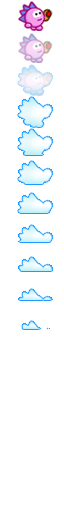
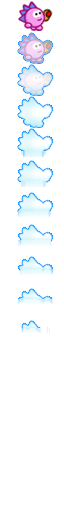
Artillery mode, sniper rifle, speech bubble tweaks, fix of rope bug introduced by enabling hats in jump
--HG--
extra : convert_revision : svn%3A99beacd1-defe-0310-bff8-d3e2e4bee508/trunk%402069

diff --git a/QTfrontend/ammoSchemeModel.cpp b/QTfrontend/ammoSchemeModel.cpp
@@ -34,11 +34,12 @@ QList<QVariant> defaultScheme = QList<QVariant>()
 		<< QVariant(true)          // add mines      8
 		<< QVariant(false)         // vampiric       9
 		<< QVariant(false)         // karma          10
-		<< QVariant(100)           // damage modfier 11
-		<< QVariant(45)            // turn time      12
-		<< QVariant(100)           // init health    13
-		<< QVariant(15)            // sudden death   14
-		<< QVariant(5)             // case prob      15
+		<< QVariant(false)         // artillery      11
+		<< QVariant(100)           // damage modfier 12
+		<< QVariant(45)            // turn time      13
+		<< QVariant(100)           // init health    14
+		<< QVariant(15)            // sudden death   15
+		<< QVariant(5)             // case prob      16
 		;
 
 AmmoSchemeModel::AmmoSchemeModel(QObject* parent, const QString & fileName) :
@@ -65,11 +66,12 @@ AmmoSchemeModel::AmmoSchemeModel(QObject* parent, const QString & fileName) :
 		<< "mines"            //  8
 		<< "vampiric"         //  9
 		<< "karma"            // 10
-		<< "damagefactor"     // 11
-		<< "turntime"         // 12
-		<< "health"           // 13
-		<< "suddendeath"      // 14
-		<< "caseprobability"  // 15
+		<< "artillery"        // 11
+		<< "damagefactor"     // 12
+		<< "turntime"         // 13
+		<< "health"           // 14
+		<< "suddendeath"      // 15
+		<< "caseprobability"  // 16
 		;
 
 	QList<QVariant> proMode;
@@ -85,11 +87,12 @@ AmmoSchemeModel::AmmoSchemeModel(QObject* parent, const QString & fileName) :
 		<< QVariant(false)         // add mines      8
 		<< QVariant(false)         // vampiric       9
 		<< QVariant(false)         // karma          10
-		<< QVariant(100)           // damage modfier 11
-		<< QVariant(15)            // turn time      12
-		<< QVariant(100)           // init health    13
-		<< QVariant(15)            // sudden death   14
-		<< QVariant(0)             // case prob      15
+		<< QVariant(false)         // artillery      11
+		<< QVariant(100)           // damage modfier 12
+		<< QVariant(15)            // turn time      13
+		<< QVariant(100)           // init health    14
+		<< QVariant(15)            // sudden death   15
+		<< QVariant(0)             // case prob      16
 		;
 
 	QList<QVariant> shoppa;
@@ -105,11 +108,12 @@ AmmoSchemeModel::AmmoSchemeModel(QObject* parent, const QString & fileName) :
 		<< QVariant(false)         // add mines      8
 		<< QVariant(false)         // vampiric       9
 		<< QVariant(false)         // karma          10
-		<< QVariant(100)           // damage modfier 11
-		<< QVariant(30)            // turn time      12
-		<< QVariant(100)           // init health    13
-		<< QVariant(50)            // sudden death   14
-		<< QVariant(1)             // case prob      15
+		<< QVariant(false)         // artillery      11
+		<< QVariant(100)           // damage modfier 12
+		<< QVariant(30)            // turn time      13
+		<< QVariant(100)           // init health    14
+		<< QVariant(50)            // sudden death   15
+		<< QVariant(1)             // case prob      16
 		;
 
 	QList<QVariant> basketball;
@@ -125,11 +129,12 @@ AmmoSchemeModel::AmmoSchemeModel(QObject* parent, const QString & fileName) :
 		<< QVariant(false)         // add mines      8
 		<< QVariant(false)         // vampiric       9
 		<< QVariant(false)         // karma          10
-		<< QVariant(100)           // damage modfier 11
-		<< QVariant(30)            // turn time      12
-		<< QVariant(100)           // init health    13
-		<< QVariant(15)            // sudden death   14
-		<< QVariant(0)             // case prob      15
+		<< QVariant(false)         // artillery      11
+		<< QVariant(100)           // damage modfier 12
+		<< QVariant(30)            // turn time      13
+		<< QVariant(100)           // init health    14
+		<< QVariant(15)            // sudden death   15
+		<< QVariant(0)             // case prob      16
 		;
 
 	schemes.append(defaultScheme);

diff --git a/QTfrontend/gamecfgwidget.cpp b/QTfrontend/gamecfgwidget.cpp
@@ -111,13 +111,15 @@ quint32 GameCFGWidget::getGameFlags() const
 		result |= 0x200;
 	if (schemeData(10).toBool())
 		result |= 0x400;
+	if (schemeData(11).toBool())
+		result |= 0x800;
 
 	return result;
 }
 
 quint32 GameCFGWidget::getInitHealth() const
 {
-	return schemeData(13).toInt();
+	return schemeData(14).toInt();
 }
 
 QStringList GameCFGWidget::getFullConfig() const
@@ -125,10 +127,10 @@ QStringList GameCFGWidget::getFullConfig() const
 	QStringList sl;
 	sl.append("eseed " + pMapContainer->getCurrentSeed());
 	sl.append(QString("e$gmflags %1").arg(getGameFlags()));
-	sl.append(QString("e$damagepct %1").arg(schemeData(11).toInt()));
-	sl.append(QString("e$turntime %1").arg(schemeData(12).toInt() * 1000));
-	sl.append(QString("e$sd_turns %1").arg(schemeData(14).toInt()));
-	sl.append(QString("e$casefreq %1").arg(schemeData(15).toInt()));
+	sl.append(QString("e$damagepct %1").arg(schemeData(12).toInt()));
+	sl.append(QString("e$turntime %1").arg(schemeData(13).toInt() * 1000));
+	sl.append(QString("e$sd_turns %1").arg(schemeData(15).toInt()));
+	sl.append(QString("e$casefreq %1").arg(schemeData(16).toInt()));
 	sl.append(QString("e$template_filter %1").arg(pMapContainer->getTemplateFilter()));
 
 	QString currentMap = pMapContainer->getCurrentMap();

diff --git a/QTfrontend/pages.cpp b/QTfrontend/pages.cpp
@@ -924,6 +924,10 @@ PageScheme::PageScheme(QWidget* parent) :
 	TBW_karma->setText(ToggleButtonWidget::tr("Karma"));
 	glGMLayout->addWidget(TBW_karma,2,1,1,1);
 
+	TBW_artillery = new ToggleButtonWidget(gbGameModes, ":/res/btnArtillery.png");
+	TBW_artillery->setText(ToggleButtonWidget::tr("Artillery"));
+	glGMLayout->addWidget(TBW_artillery,2,2,1,1);
+
 	// Right
 	QLabel * l;
 	
@@ -1041,11 +1045,12 @@ void PageScheme::setModel(QAbstractItemModel * model)
 	mapper->addMapping(TBW_mines->button(), 8);
 	mapper->addMapping(TBW_vampiric->button(), 9);
 	mapper->addMapping(TBW_karma->button(), 10);
-	mapper->addMapping(SB_DamageModifier, 11);
-	mapper->addMapping(SB_TurnTime, 12);
-	mapper->addMapping(SB_InitHealth, 13);
-	mapper->addMapping(SB_SuddenDeath, 14);
-	mapper->addMapping(SB_CaseProb, 15);
+	mapper->addMapping(TBW_artillery->button(), 11);
+	mapper->addMapping(SB_DamageModifier, 12);
+	mapper->addMapping(SB_TurnTime, 13);
+	mapper->addMapping(SB_InitHealth, 14);
+	mapper->addMapping(SB_SuddenDeath, 15);
+	mapper->addMapping(SB_CaseProb, 16);
 
 	mapper->toFirst();
 }

diff --git a/QTfrontend/pages.h b/QTfrontend/pages.h
@@ -426,6 +426,7 @@ private:
 	ToggleButtonWidget * TBW_mines;
 	ToggleButtonWidget * TBW_vampiric;
 	ToggleButtonWidget * TBW_karma;
+	ToggleButtonWidget * TBW_artillery;
 
 	QSpinBox * SB_DamageModifier;
 	QSpinBox * SB_TurnTime;
